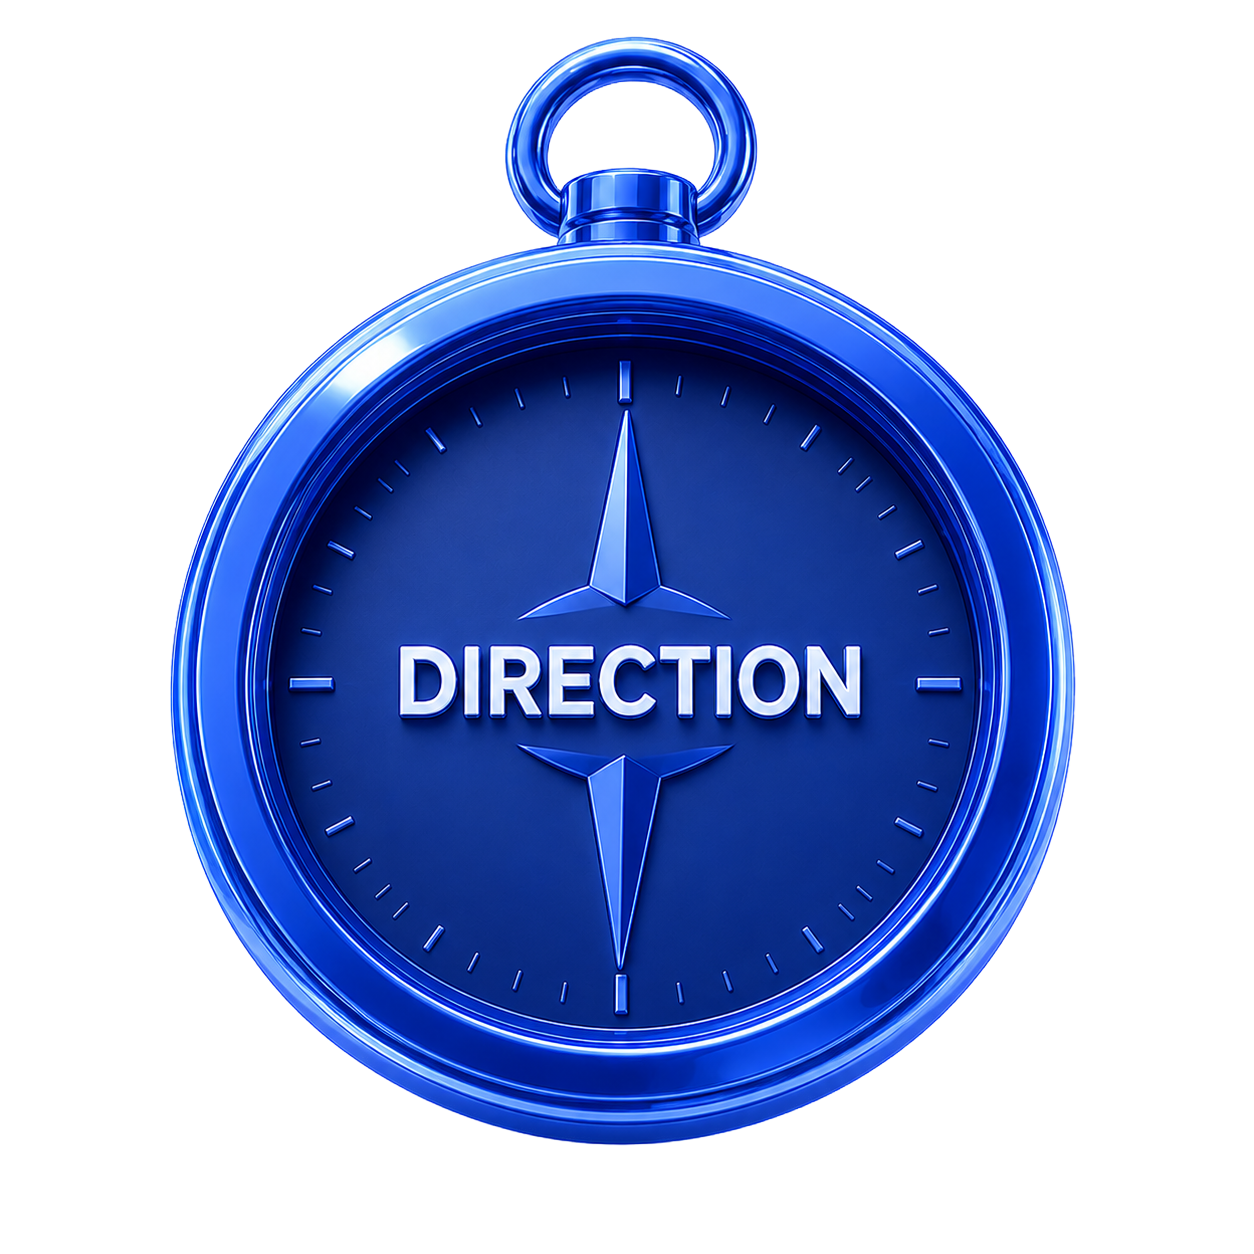
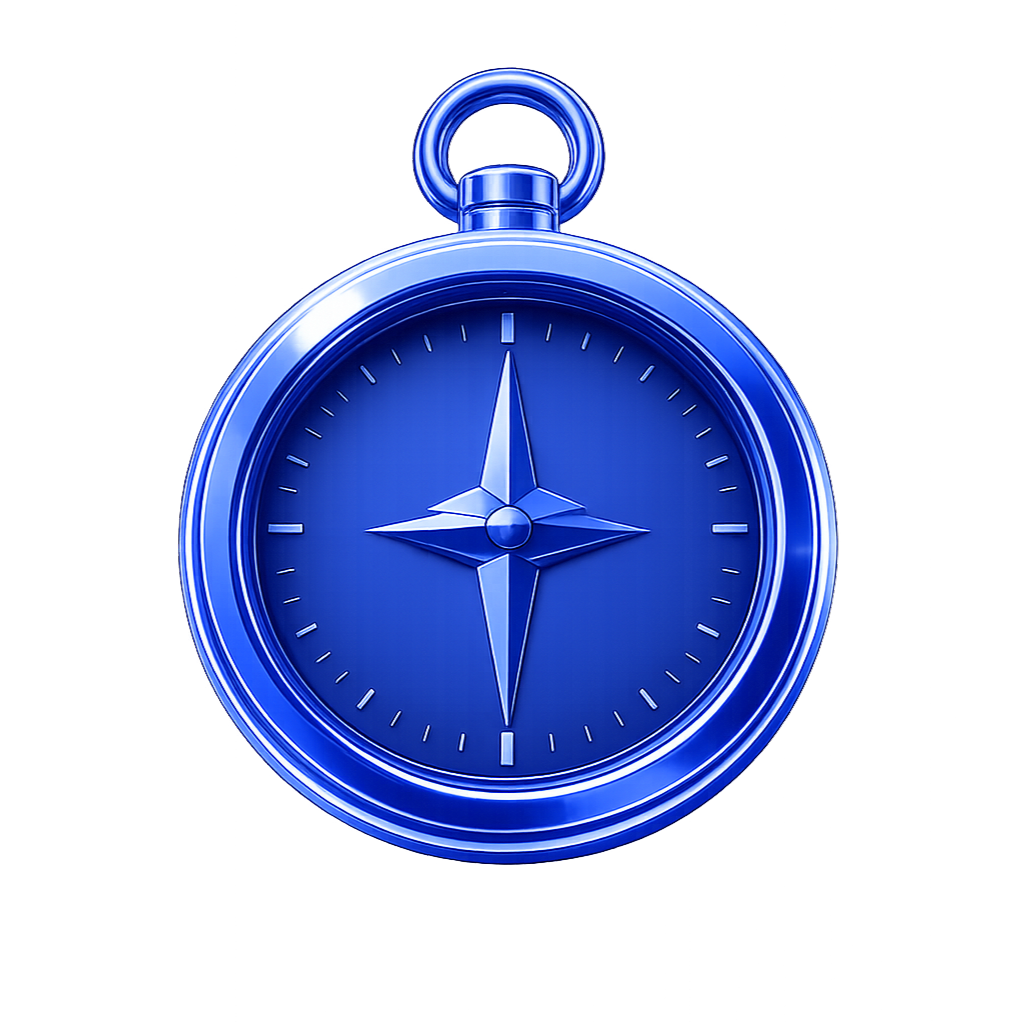
update

diff --git a/index.html b/index.html
@@ -3091,6 +3091,9 @@
                             <span class="face-tag">Solution 01</span>
                             <h3 style="margin-top:15px; color:#FFFFFF;">Institutional Mindset</h3>
                         </div>
+                        <div class="card-icon">
+                            <img src="solution1.png" alt="Solution 1">
+                        </div>
                         <p>Trade with structured systems instead of emotional speculation. Learn to act like a market
                             participant.</p>
                     </div>
@@ -3115,6 +3118,9 @@
                         <div>
                             <span class="face-tag">Solution 02</span>
                             <h3 style="margin-top:15px; color:#FFFFFF;">Hedging Systems</h3>
+                        </div>
+                        <div class="card-icon">
+                            <img src="solution2.png" alt="Solution 2">
                         </div>
                         <p>Implement strategies specifically designed to reduce drawdowns and protect capital across all
                             conditions.</p>
@@ -3141,6 +3147,9 @@
                             <span class="face-tag">Solution 03</span>
                             <h3 style="margin-top:15px; color:#FFFFFF;">Systematic Execution</h3>
                         </div>
+                        <div class="card-icon">
+                            <img src="solution3.png" alt="Solution 3">
+                        </div>
                         <p>Clear frameworks, repeatable processes, and pre-defined setups remove emotion before the
                             market opens.</p>
                     </div>
@@ -3165,6 +3174,9 @@
                         <div>
                             <span class="face-tag">Solution 04</span>
                             <h3 style="margin-top:15px; color:#FFFFFF;">Mentorship &amp; Guidance</h3>
+                        </div>
+                        <div class="card-icon">
+                            <img src="solution4.png" alt="Solution 4">
                         </div>
                         <p>Direct learning from 9+ years of real market experience and live execution. Personalization
                             leads to mastery.</p>
